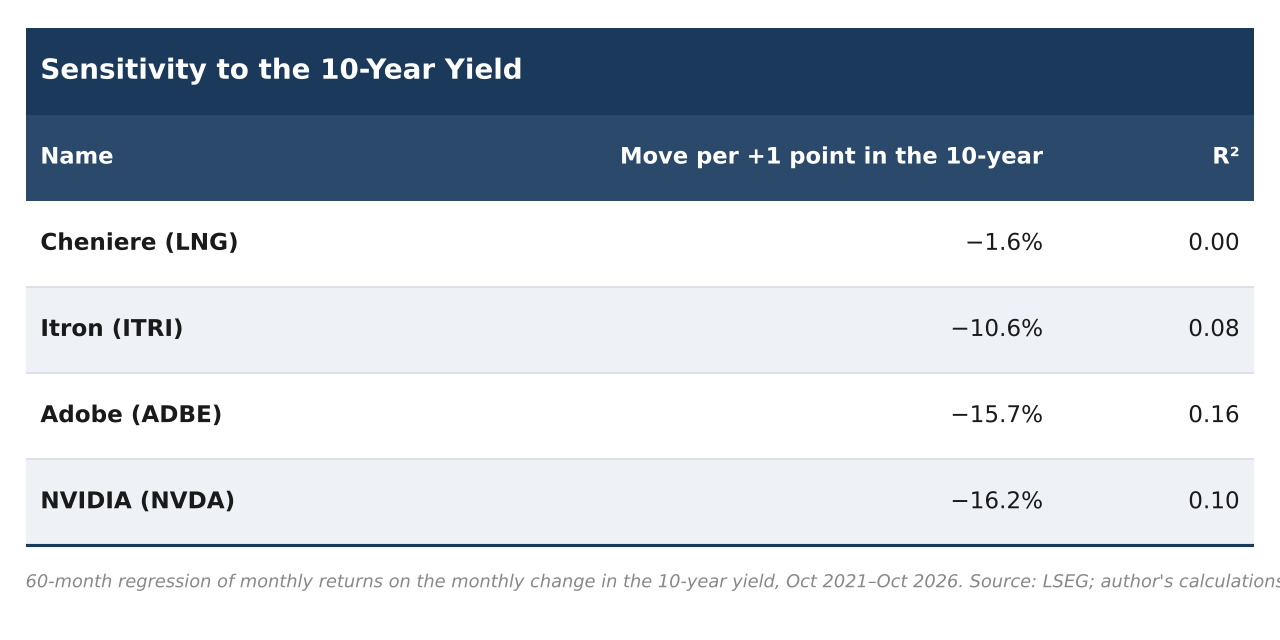
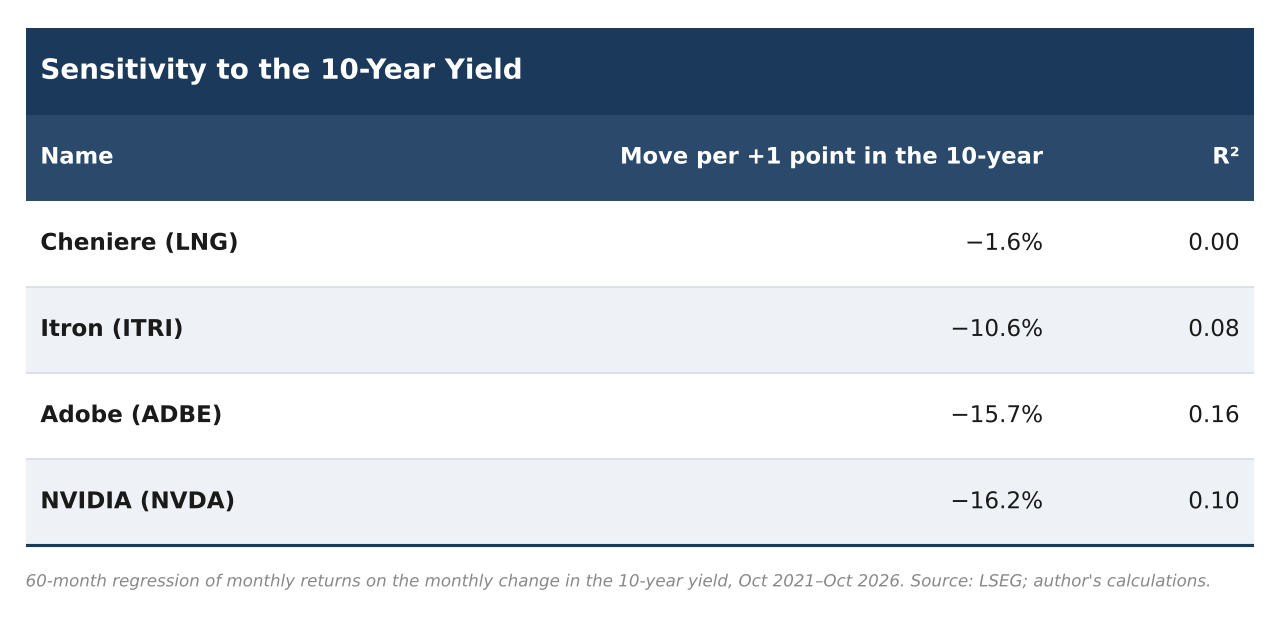
Fix table caption cutoffs, Itron label overlap; add figure placeholders to draft
- make_tables.py: shrink source-caption font to 7.5, shorten dispersion
  caption, widen dispersion table (cw=9.6) so the LSEG/author's-calculations
  line fits fully on both tables
- make_duration_charts.py: move Itron pre-print label down (dy -26) so it
  no longer overlaps the 200-week point
- regenerate table-dispersion.png, table-betas.png, itron-200week.png
- DRAFT.md: correct the Itron proof sentence to the real trough-multiple
  framing; tighten "what would change my mind" to the dispersion-table test;
  insert the five figure placeholders with captions and the rate-beta caveat

Claude-Session: https://claude.ai/code/session_01PR1GkAXEASRi1F28SPUd1v

Changed region(s): [[0.0312, 0.875, 1.0, 0.9375]]

diff --git a/charts/make_tables.py b/charts/make_tables.py
@@ -32,7 +32,7 @@ def table(fname,title,cols,aligns,widths,rows,source,cw=9.0):
                     fontweight="bold" if c==0 else "normal",va="center",ha=a)
     ybot=y_h-n*band
     ax.plot([0,1],[ybot,ybot],color=NAVY,lw=1.4)
-    ax.text(0.0,ybot-0.045,source,color="#888",fontsize=8.0,style="italic",va="top",ha="left")
+    ax.text(0.0,ybot-0.045,source,color="#888",fontsize=7.5,style="italic",va="top",ha="left")
     fig.subplots_adjust(left=0.02,right=0.98,top=0.995,bottom=0.01)
     fig.savefig(f"charts/{fname}",facecolor="white"); print("wrote",fname)
 
@@ -43,7 +43,7 @@ table("table-dispersion.png","One-Year Return by Entry Date, Five Years",
        ["Itron (ITRI)","−45%","+22%","+99%","33"],
        ["Adobe (ADBE)","−58%","−21%","+105%","38"],
        ["NVIDIA (NVDA)","−55%","+62%","+305%","91"]],
-      "Every trading day Oct 2021–Oct 2025 taken as an entry, held one year. Spread is the standard deviation of those outcomes. Source: LSEG daily closes; author's calculations.")
+      "Every trading day Oct 2021–Oct 2025 as an entry, held one year. Source: LSEG; author's calculations.",cw=9.6)
 
 table("table-betas.png","Sensitivity to the 10-Year Yield",
       ["Name","Move per +1 point in the 10-year","R²"],

diff --git a/charts/make_duration_charts.py b/charts/make_duration_charts.py
@@ -64,7 +64,7 @@ def mark(date,txt,dy,col=INK,ha="center",dx=0):
     ax.scatter([i],[px],color=col,s=30,zorder=5)
     ax.annotate(txt,(i,px),xytext=(dx,dy),textcoords="offset points",ha=ha,fontsize=9.6,color=col,
         fontweight="bold",va="bottom" if dy>0 else "top")
-mark('2026-07-27',"pre-print $84.78",-14,"#888")
+mark('2026-07-27',"pre-print $84.78",-26,"#888")
 mark('2026-07-28',"+26% on the Q2 beat,\n$107 intraday",16,ORANGE)
 mark('2026-10-23',"now\n$87.65",2,NAVY,ha="left",dx=10)
 # inline 200-week label on the dashed line, mid-chart

diff --git a/duration-entry-timing-DRAFT.md b/duration-entry-timing-DRAFT.md
@@ -60,9 +60,12 @@ One line of regime, because it raises the stakes. The US ten-year yield was 5.29
 
 On July 28 Itron rose 26% in a single session on a margin beat and an EPS guide. I wrote at the time that the move repriced the EPS and did not reprice the business. In this framework that sentence has a precise meaning.
 
-The 26% was the first two parts of the return. Earnings power got marked up. The multiple, the part a re-rating delivers, stayed where it was, an earnings multiple on a business the market still files under hardware. You can see which of the two moved by watching the multiple itself: the forward P/E after the 26% jump was about what it had been before it, so the price rose because the earnings number rose, not because the market agreed to pay more for each dollar of them.
+The 26% was the first two parts of the return. Earnings power got marked up. The multiple, the part a re-rating delivers, stayed where it was, an earnings multiple on a business the market still files under hardware. You can see it in the multiple itself: even after the 26% jump the stock sat at about 15.6x forward earnings, 0.75x the S&P against a 1.29x ten-year average, near the trough of its own range. The market marked the earnings up and kept paying a trough, hardware-style multiple for them. A name that used to trade at a 29% premium to the market was still at a 25% discount.
 
 Here is what happened next, and it is the whole argument in one name. The stock has given the entire move back. Itron closed at $87.65 on October 23, below the $99.66 it settled at after the print and below my own cost, and cheaper on forward earnings than it was before the quarter that beat. It now sits about 4% below its 200-week moving average. The earnings pop faded because the multiple never re-rated, and the re-rate, the switch to valuing the software, is still sitting out there waiting on a catalyst with a date. Being early has cost me a few percent, and nothing of the thesis: the piece I am waiting on has not moved.
+
+> **[INSERT IMAGE: charts/itron-200week.png]**
+> *Caption: Itron gave the entire 26% back and now sits on its 200-week line, with the re-rate still ahead.*
 
 ## Where I actually sit
 
@@ -99,12 +102,8 @@ Everything above is a claim. Here is five years of closing prices testing it.
 
 **How much did the entry date actually matter.** Take every trading day in the last five years, buy, hold one year, record the result. The spread of those outcomes is how much your entry date decided your fate.
 
-| Name | worst 1-yr | median | best 1-yr | std dev |
-|---|---|---|---|---|
-| Cheniere (LNG) | −20% | +13% | +72% | 18 |
-| Itron (ITRI) | −45% | +22% | +99% | 33 |
-| Adobe (ADBE) | −58% | −21% | +105% | 38 |
-| NVIDIA (NVDA) | −55% | +62% | +305% | 91 |
+> **[INSERT IMAGE: charts/table-dispersion.png]** (or the chart version, charts/entry-dispersion.png, as the hero)
+> *Caption: One-year return by entry date, five years. The wider the spread, the more your entry date decided the result.*
 
 Entry date mattered five times as much on NVIDIA as on Cheniere, and Cheniere's worst year was a −20% while NVIDIA's was −55%. The name carried by contracted cash and a floor is the one where timing was closest to noise.
 
@@ -112,9 +111,17 @@ Entry date mattered five times as much on NVIDIA as on Cheniere, and Cheniere's 
 
 **Rate sensitivity points the same way.** Regress each stock's monthly return on the monthly move in the ten-year yield over the last five years and the ranking holds. Cheniere barely reacts, and the long-duration names move about ten times as hard.
 
-(Betas: Cheniere −1.6%, Itron −10.6%, NVIDIA −16.2%, Adobe −15.7% per one-point move in the ten-year, sixty monthly observations, October 2021 to October 2026. The R-squared runs from roughly zero on Cheniere, where rates explain almost none of the moves, to 0.16 on Adobe, so the relationship is directionally clear and numerically noisy. The drawdown ranking says the same thing without a regression, which is why I lead with it.)
+> **[INSERT IMAGE: charts/table-betas.png]**
+> *Caption: How hard each name moves with the 10-year. The floored name barely reacts; the re-rate names move about ten times as much.*
+
+The R-squared runs from roughly zero on Cheniere, where rates explain almost none of its moves, to 0.16 on Adobe, so read the ranking, not the decimals. The drawdown above says the same thing without any regression at all, which is why I lead with it.
 
 This is the evidence for the claim I could only assert earlier. The textbook DCF said a one-point rate rise should cost a long-duration name about three points more than a short one, 17 against 14. The tape says the long-duration names move something like ten times as much with rates as Cheniere does. The cash flows are the same in both accounts, so the extra is the market repricing those far-out years, the multiple rather than the math. Some of it is just risk appetite, since these are high-beta names that sell off when money gets scared, so I read the multiple as most of that gap, not all of it. Either way it is the piece the arithmetic never captured.
+
+> **[INSERT IMAGE: charts/duration-spectrum.png]**
+> *Caption: My four equities, ordered by how much of the return rides on the multiple. The entry matters more as you move right.*
+
+One honest limit on that ordering: the rate beta captures the piece of the multiple that moves with rates. It understates a name like Itron, whose re-rate is company-specific rather than rate-driven, so Itron sits lower on the rate axis than its true multiple-dependence. The dispersion table catches what the beta misses, which is why it, not the beta, is the test.
 
 One last cut, because it is the rule the chart crowd actually uses. There is a well-worn line, usually hung on Charlie Munger though the quote is almost certainly apocryphal, that you buy quality names when they fall to their 200-week moving average. The 200-week part matters, and it is the part people get wrong by reaching for the 200-day, as I did at first. A quality name touches its 200-day line constantly. It touches its 200-week line only in a real dislocation. Run the 200-week line on the four names with price histories and it flags exactly one. Itron sits about 4% below its 200-week line today. Cheniere trades 44% above its line and NVIDIA 77% above, and neither has been near it in five years. Adobe sits 34% below a 200-week line dragged up by three years of $400-to-$600 prices that are not coming back, a lagging average, not a buy signal. The rule points at the one name where the re-rate has not happened, and says nothing on the names carried by growth or capped by a floor. One firing across five years is an observation, not a test. A real test of whether the rule works wants fifteen years and a cross-section of names, and that is a separate post.
 
@@ -122,7 +129,7 @@ Read against this, the survey answers stop arguing. The investors who use charts
 
 ## What would change my mind
 
-The dispersion table is the test. If the short-duration names with contracted cash flows showed as much entry-timing variance as the long-duration re-rate plays, the framework would be wrong. They do not, by a factor of five. And a chart alone is never a reason to buy: it only tells you whether the multiple is depressed, which matters once you have already decided the business is worth owning.
+The framework makes one prediction: entry timing should matter more on the names where the return rides on a multiple than on the ones paid in cash. The dispersion table is where that gets tested. Had Cheniere's one-year outcomes varied as much by entry date as NVIDIA's, the prediction would be false and the framework with it. Instead Cheniere's spread is a fifth of NVIDIA's. And a chart alone is never a reason to buy: it only tells you whether the multiple is depressed, which matters once you have already decided the business is worth owning.
 
 ## The close
 
